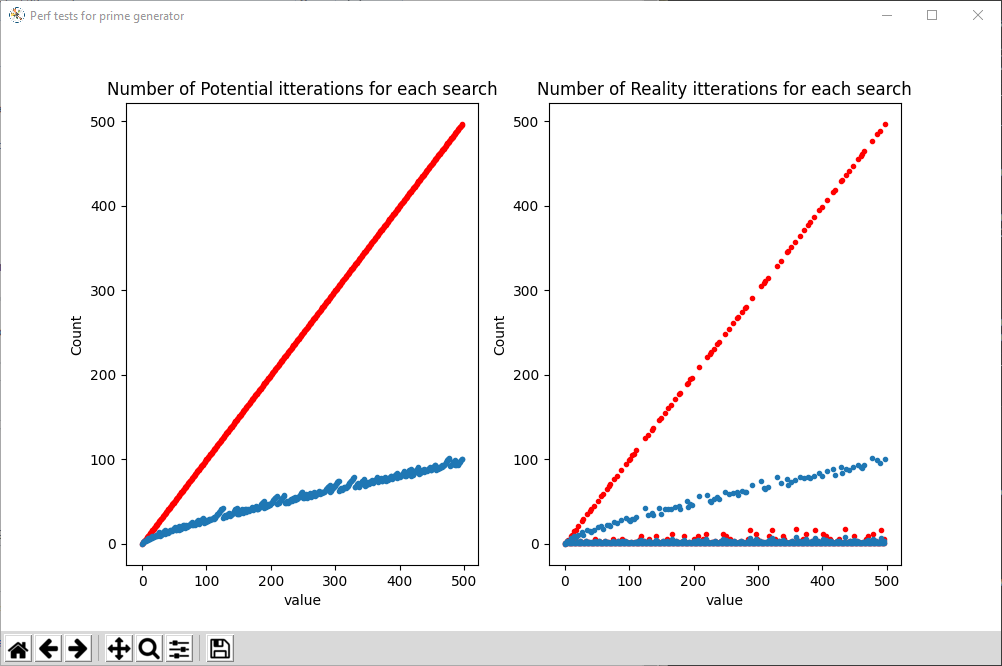
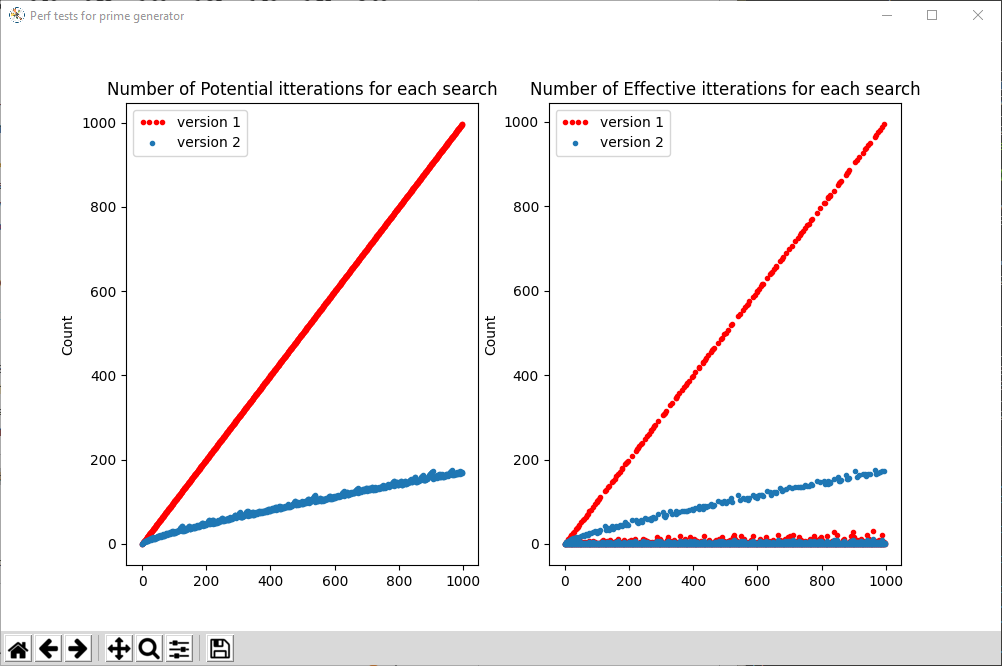
Complete README.

diff --git a/display.py b/display.py
@@ -1,3 +1,4 @@
+from matplotlib.legend_handler import HandlerLine2D
 from matplotlib import pyplot as plt
 from prettytable import PrettyTable
 
@@ -72,14 +73,16 @@ def plot_2_curves(abscisse, c1_values, t1, c2_values, t2):
 	plt.figure(figsize=(10, 6), num="Perf tests for prime generator")
 	
 	plt.subplot(1, 2, 1)
-	plt.plot(abscisse, c1_values[0], 'r.', abscisse, c1_values[1], '.')
-	plt.title(f"Number of {t1} itterations for each search")
+	line1, = plt.plot(abscisse, c1_values[0], 'r.',label='version 1')
+	line2, = plt.plot(abscisse, c1_values[1], '.', label='version 2')
+	plt.legend(handler_map={line1: HandlerLine2D(numpoints=4)})
+	plt.title(f"Number of {t1} iterations for each search")
 	plt.ylabel("Count")
-	plt.xlabel("value")
 
 	plt.subplot(1, 2, 2)
-	plt.plot(abscisse, c2_values[0], 'r.', abscisse, c2_values[1], '.')
-	plt.title(f"Number of {t2} itterations for each search")
+	line1, = plt.plot(abscisse, c2_values[0], 'r.',label='version 1')
+	line2, = plt.plot(abscisse, c2_values[1], '.', label='version 2')
+	plt.title(f"Number of Effective iterations for each search")
+	plt.legend(handler_map={line1: HandlerLine2D(numpoints=4)})
 	plt.ylabel("Count")
-	plt.xlabel("value")
 	plt.show()

diff --git a/README.md b/README.md
@@ -1,6 +1,6 @@
 # :abacus: Prime Numbers
 
-## :memo: Installation
+## :clipboard: Installation
 
 Use the package manager [pip](https://pip.pypa.io/en/stable/) to install **matplotlib** and **prettytable**.
 
@@ -43,7 +43,7 @@ All primes grouped by 10:
 +-------+-------+-------+
 ```
 
-### :chart: Curve plot 
+### :chart_with_upwards_trend: Curve plot 
 ![curve](img/primes_smaller_than_100.PNG)
 
 
@@ -56,13 +56,14 @@ GROUP = 10
 ```
 
 with `BORNE_SUP = 10000` :
+
 ![curve](img/primes_smaller_than_10_000.PNG)
 
 
+---
 
 
-
-# Playing with performances
+# :zap: Playing with performances
 
 
 ## :rocket: Quick start 
@@ -72,13 +73,12 @@ Run this command:
 python perfs.py
 ```
 
-## Searching primes 
+## :stopwatch: Searching primes 
 Testing 2 research algoriths : 
 
 1. **Version 1**: Looping through all previous **natural numbers** in order to find a potential divider
 1. **Version 2**: Looping through all previous **prime numbers** in order to find a potential divider and then through remaining natural numbers.
 
---- 
 
 ```as
 All Performance Tests for primes smaller than 5000:
@@ -92,17 +92,17 @@ Average : function 'v2' is 430.4% faster than 'v1'.
 ```
 
 Performances for primes smaller than 500 :
+
 ![curve](img/searching_primes_smaller_than_500.PNG)
 
 
-## Storing primes
-Testing 3 ways to store the primes:
+## :floppy_disk: Storing primes
+Testing 3 ways to access and store the primes:
 
 1. Not storing them and calculating them for each iterations
-1. Storing them in a file
-1. Storing them in a database (SQLite3)
+1. Storing them in a file after the first iteration and then accessing them
+1. Storing them in a database (SQLite3) after the first iteration and then accessing them
 
----
 
 ```as
 All Performance Tests for primes smaller than 5000:
